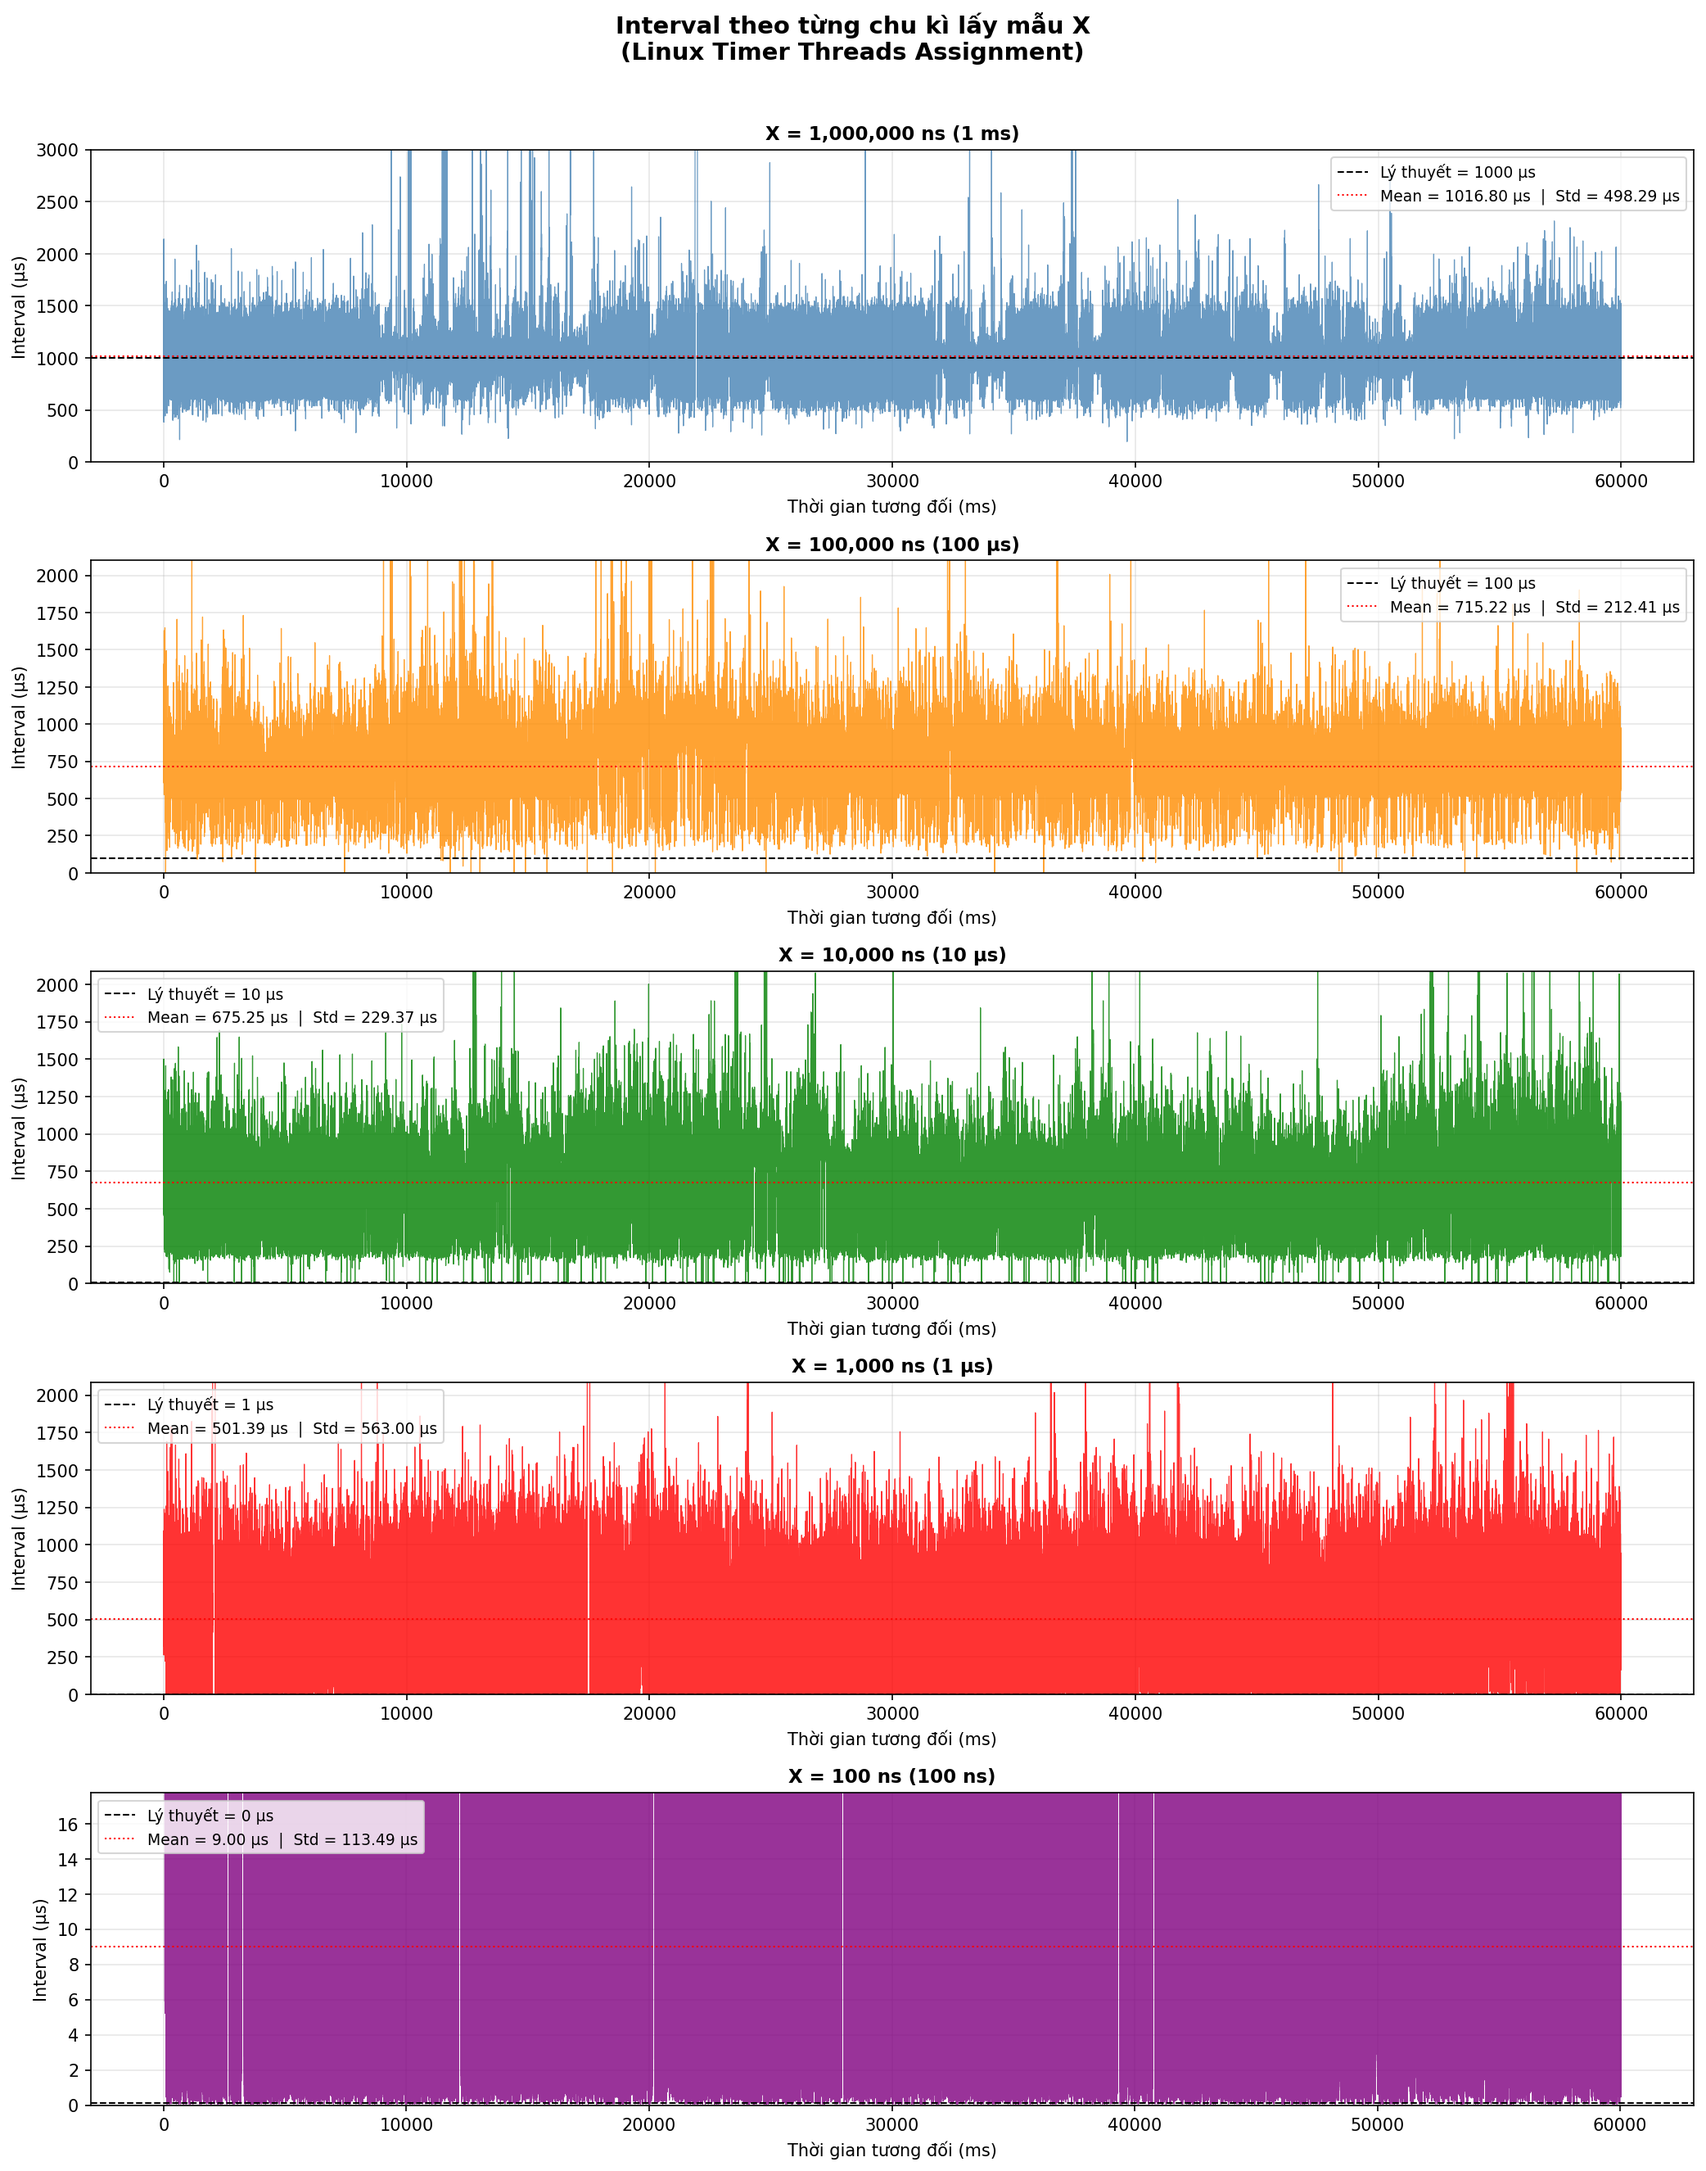
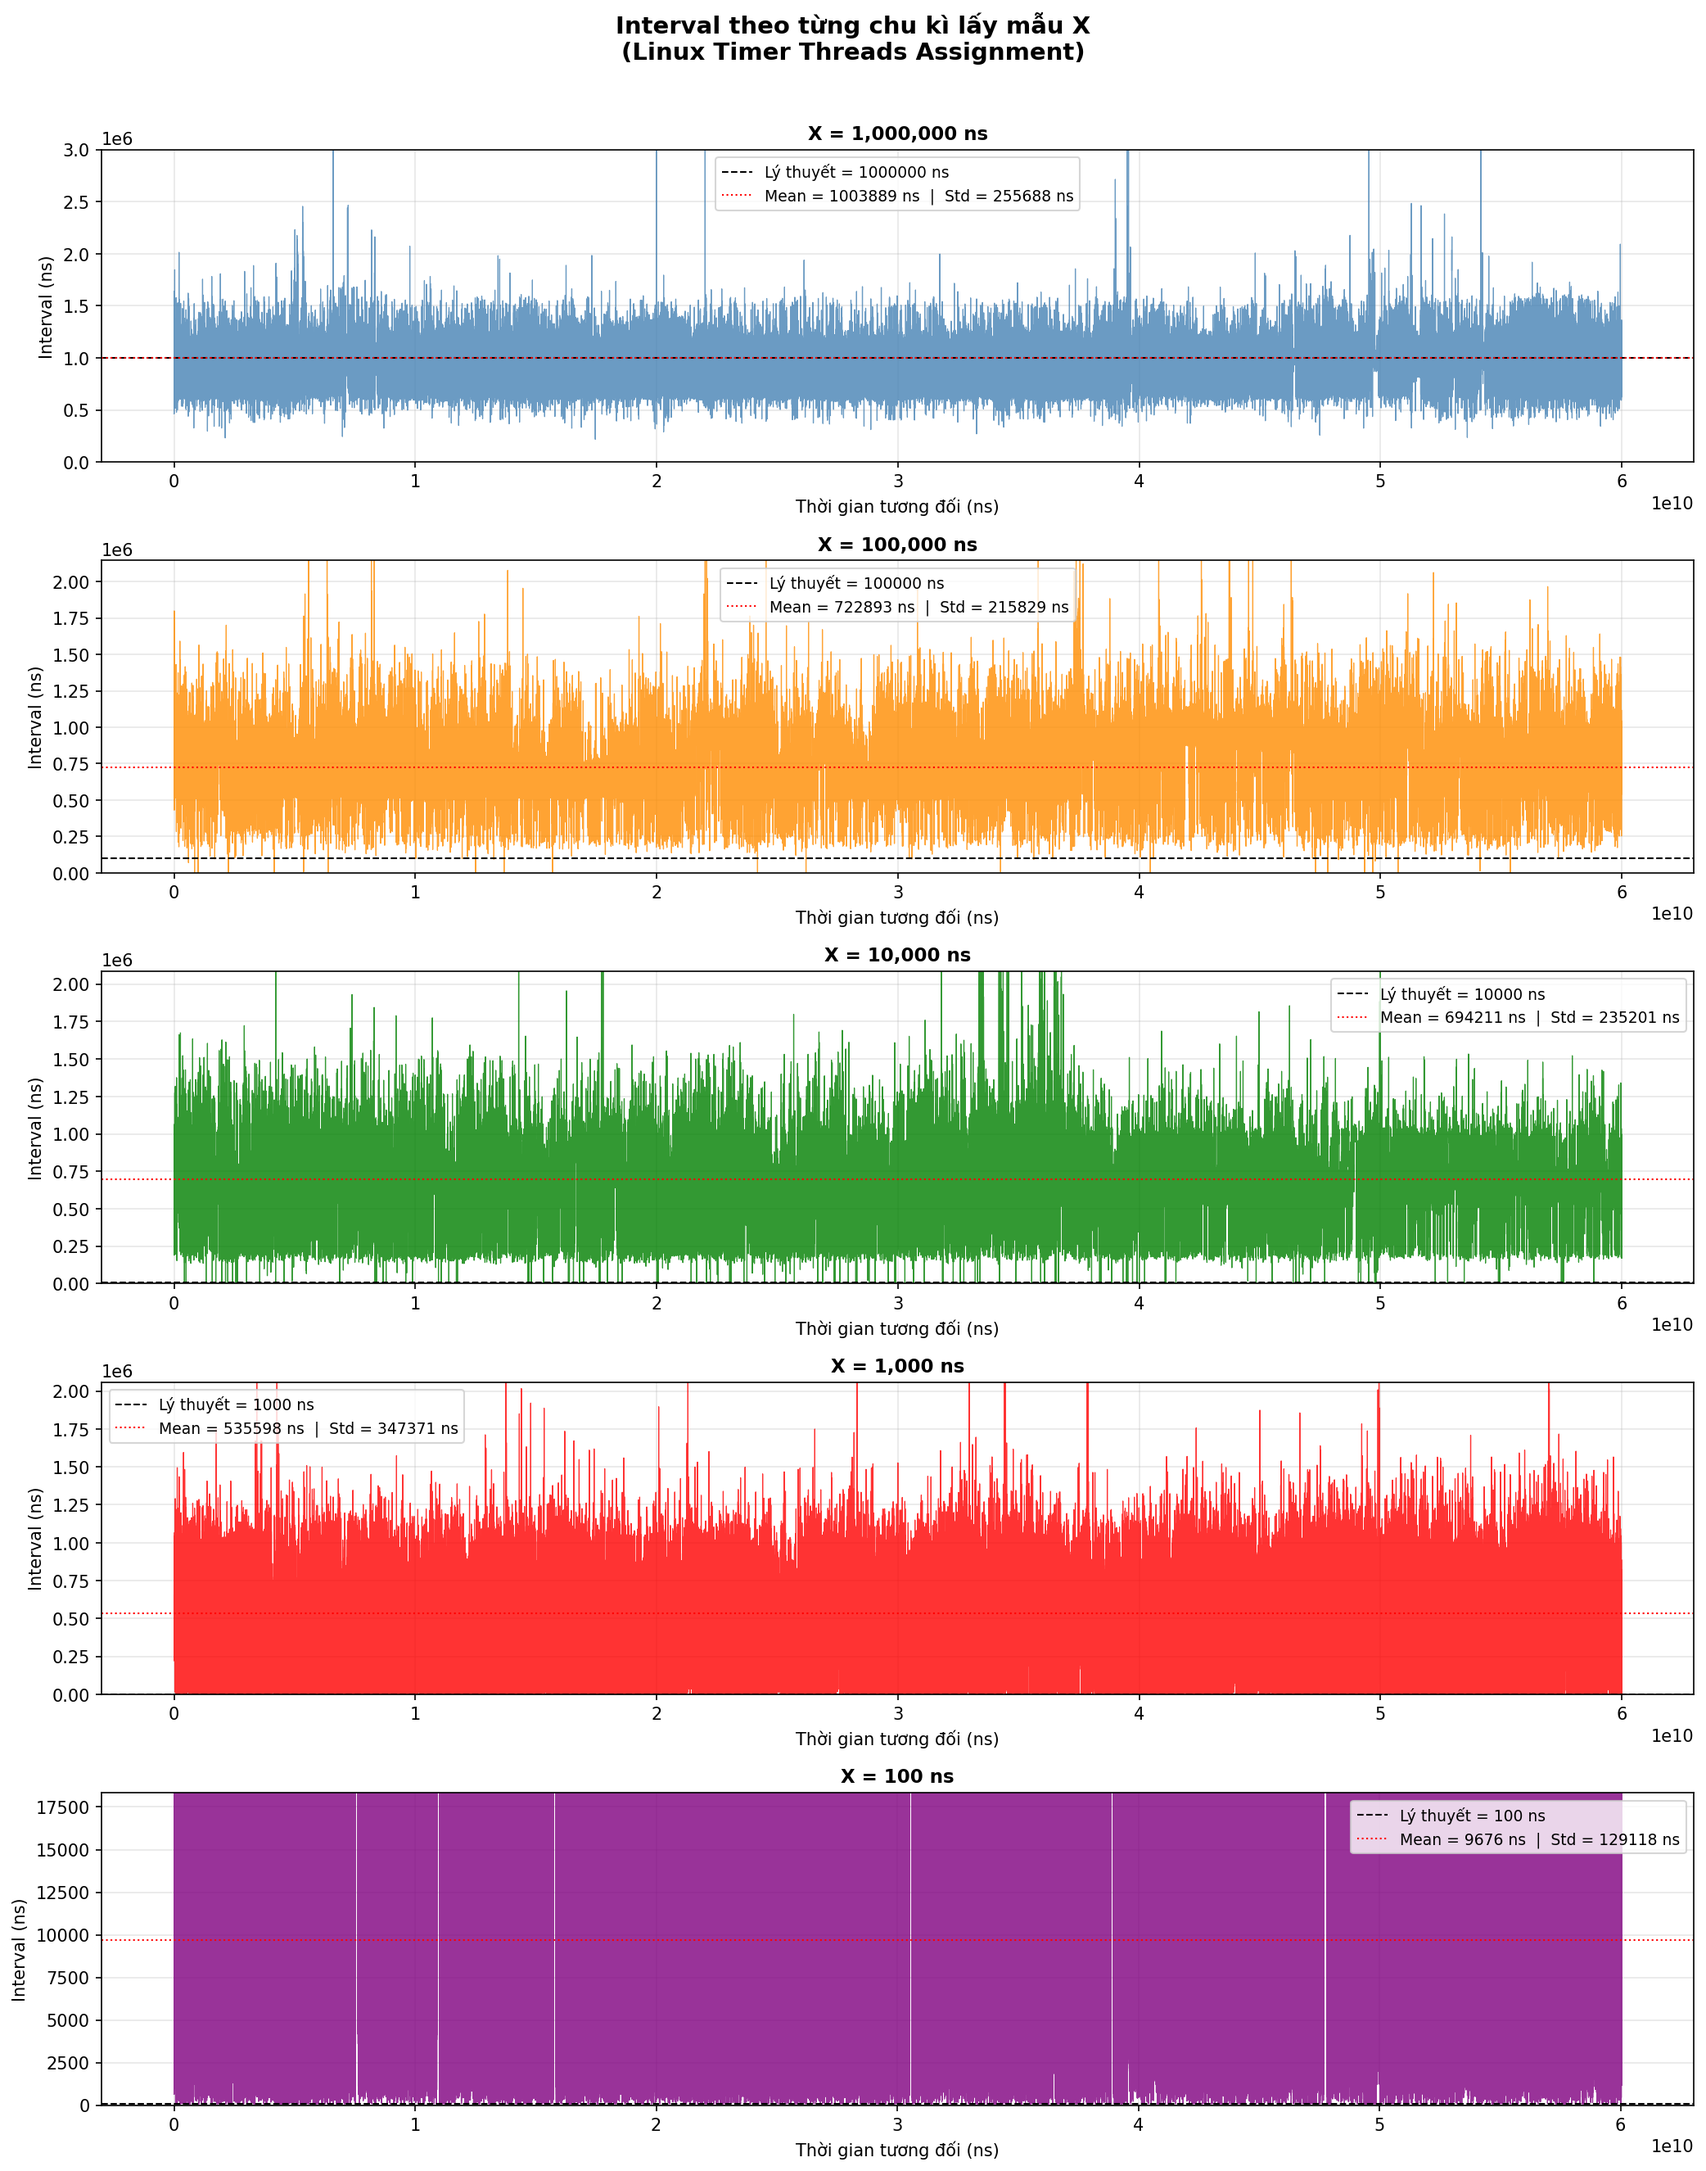
analyze_intervals_feat: Edit the content to make the resulting image more visually appealing.

diff --git a/analyze_intervals.py b/analyze_intervals.py
@@ -6,7 +6,7 @@ analyze_intervals.py
 Cách dùng:
     python3 analyze_intervals.py [time_and_interval.txt]
 
-Yêu cầu: pip install matplotlib numpy pandas
+Yêu cầu: pip install matplotlib numpy
 """
 
 import sys
@@ -49,17 +49,16 @@ if len(T) == 0:
     sys.exit(1)
 
 # ─── 2. Phân chia theo chu kì X (5 giai đoạn × 1 phút) ────────────────
-# Mỗi giai đoạn kéo dài 60 giây = 60e9 ns
-T0          = T[0]
-PERIOD_SECS = 60
+T0            = T[0]
+PERIOD_SECS   = 60
 NS_PER_PERIOD = PERIOD_SECS * 1_000_000_000
 
 PERIOD_LABELS = {
-    0: "X = 1,000,000 ns (1 ms)",
-    1: "X = 100,000 ns (100 µs)",
-    2: "X = 10,000 ns (10 µs)",
-    3: "X = 1,000 ns (1 µs)",
-    4: "X = 100 ns (100 ns)",
+    0: "X = 1,000,000 ns",
+    1: "X = 100,000 ns",
+    2: "X = 10,000 ns",
+    3: "X = 1,000 ns",
+    4: "X = 100 ns",
 }
 EXPECTED_NS = [1_000_000, 100_000, 10_000, 1_000, 100]
 COLORS      = ['steelblue', 'darkorange', 'green', 'red', 'purple']
@@ -78,27 +77,33 @@ for p in range(5):
         ax.set_title(f"{PERIOD_LABELS[p]}  — không có dữ liệu")
         continue
 
-    t_rel = (T[idx] - T[idx][0]) / 1e6   # ms
-    iv    = interval[idx] / 1e3           # µs
+    # Trục X: thời gian tương đối trong giai đoạn, đơn vị ns
+    t_rel = T[idx] - T[idx][0]
+
+    # Trục Y: interval giữ nguyên đơn vị ns
+    iv = interval[idx]
 
     ax.plot(t_rel, iv, color=COLORS[p], linewidth=0.6, alpha=0.8)
-    ax.axhline(EXPECTED_NS[p] / 1e3, color='black', linestyle='--',
-               linewidth=1.0, label=f"Lý thuyết = {EXPECTED_NS[p]/1e3:.0f} µs")
 
+    # Đường lý thuyết: đúng bằng chu kì X
+    ax.axhline(EXPECTED_NS[p], color='black', linestyle='--',
+               linewidth=1.0, label=f"Lý thuyết = {EXPECTED_NS[p]} ns")
+
+    # Đường trung bình thực đo
     mean_iv = np.mean(iv)
     std_iv  = np.std(iv)
     ax.axhline(mean_iv, color='red', linestyle=':', linewidth=1.0,
-               label=f"Mean = {mean_iv:.2f} µs  |  Std = {std_iv:.2f} µs")
+               label=f"Mean = {mean_iv:.0f} ns  |  Std = {std_iv:.0f} ns")
 
     ax.set_title(PERIOD_LABELS[p], fontsize=11, fontweight='bold')
-    ax.set_xlabel("Thời gian tương đối (ms)")
-    ax.set_ylabel("Interval (µs)")
+    ax.set_xlabel("Thời gian tương đối (ns)")
+    ax.set_ylabel("Interval (ns)")
     ax.legend(fontsize=9)
     ax.grid(True, alpha=0.3)
 
     # Clip trục Y để dễ nhìn (bỏ outlier cực lớn)
     p95 = np.percentile(iv, 95)
-    ax.set_ylim(0, max(p95 * 2, EXPECTED_NS[p] / 1e3 * 3))
+    ax.set_ylim(0, max(p95 * 2, EXPECTED_NS[p] * 3))
 
 plt.tight_layout(rect=[0, 0, 1, 0.97])
 out_file = "interval_analysis.png"
@@ -106,15 +111,15 @@ plt.savefig(out_file, dpi=150, bbox_inches='tight')
 print(f"[PLOT] Saved → {out_file}")
 
 # ─── 4. In thống kê ─────────────────────────────────────────────────────
-print("\n{'─'*65}")
-print(f"{'Giai đoạn':<30} {'N':>7} {'Mean (ns)':>12} {'Std (ns)':>12} {'Max (ns)':>12}")
+print("\n" + "─" * 65)
+print(f"{'Giai đoạn':<20} {'N':>7} {'Mean (ns)':>12} {'Std (ns)':>12} {'Max (ns)':>12}")
 print("─" * 65)
 for p in range(5):
     idx = phase == p
     if not np.any(idx):
-        print(f"{PERIOD_LABELS[p]:<30} {'N/A':>7}")
+        print(f"{PERIOD_LABELS[p]:<20} {'N/A':>7}")
         continue
     iv_ns = interval[idx]
-    print(f"{PERIOD_LABELS[p]:<30} {np.sum(idx):>7} "
+    print(f"{PERIOD_LABELS[p]:<20} {np.sum(idx):>7} "
           f"{np.mean(iv_ns):>12.0f} {np.std(iv_ns):>12.0f} {np.max(iv_ns):>12.0f}")
 print("─" * 65)

diff --git a/timer_threads.c b/timer_threads.c
@@ -164,8 +164,10 @@ static void *thread_logging(void *arg)
     while (running) {
         /* Chờ SAMPLE báo có mẫu mới */
         pthread_mutex_lock(&lock);
-        while (!new_sample && running)
+        while (!new_sample && running){
             pthread_cond_wait(&cond_new_T, &lock);
+        }
+            
 
         if (!running) {
             pthread_mutex_unlock(&lock);
